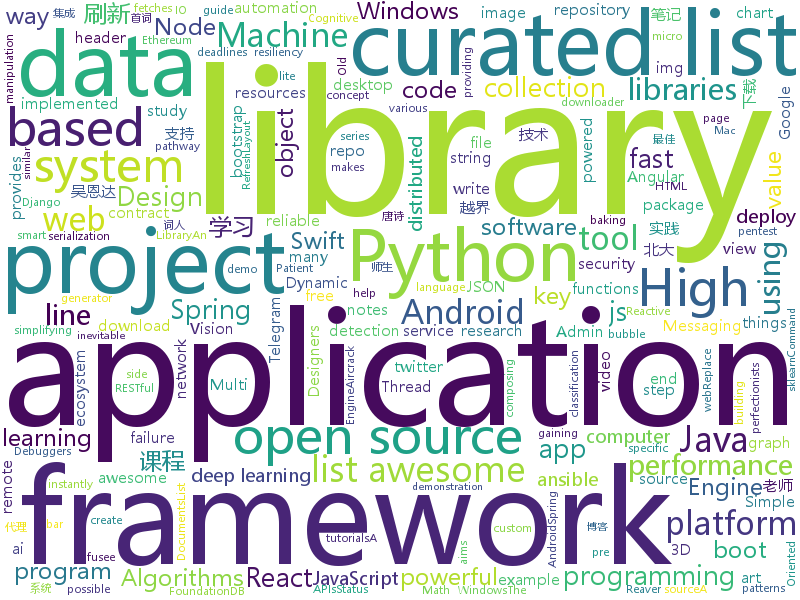
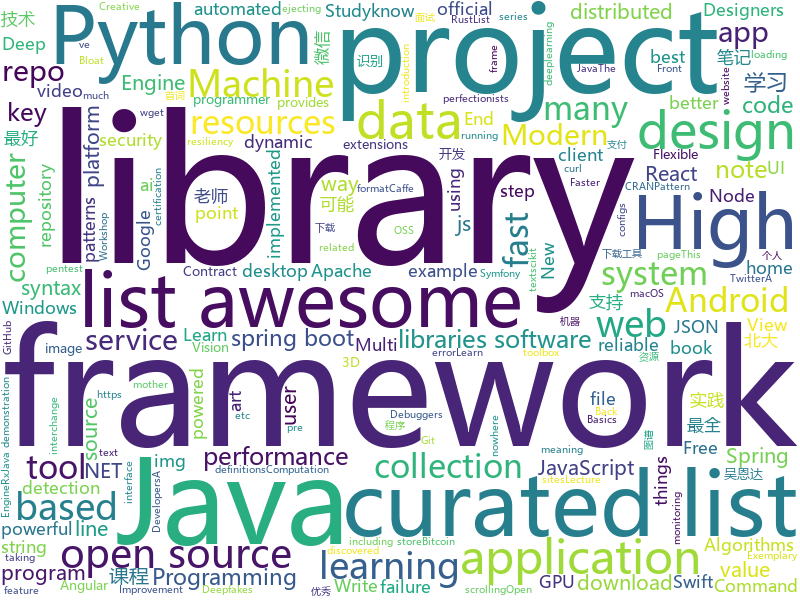
2018-04-30

diff --git a/2018-04-30.md b/2018-04-30.md
@@ -2,139 +2,139 @@
 See what the GitHub community is most excited about today.
 
 ## python
-* [swapy](https://github.com/danieldaeschle/swapy)(**446 stars today**): Easy and modular web development
-* [hypertools](https://github.com/ContextLab/hypertools)(**167 stars today**): A Python toolbox for gaining geometric insights into high-dimensional data
-* [chinese-poetry](https://github.com/chinese-poetry/chinese-poetry)(**65 stars today**): 最全中华古诗词数据库, 唐宋两朝近一万四千古诗人, 接近5.5万首唐诗加26万宋诗. 两宋时期1564位词人，21050首词。
-* [fdb-nbd](https://github.com/dividuum/fdb-nbd)(**63 stars today**): A totally proof-of-concept FoundationDB based network block device backend
-* [models](https://github.com/tensorflow/models)(**33 stars today**): Models and examples built with TensorFlow
-* [flask](https://github.com/pallets/flask)(**39 stars today**): The Python micro framework for building web applications.
-* [awesome-python](https://github.com/vinta/awesome-python)(**35 stars today**): A curated list of awesome Python frameworks, libraries, software and resources
-* [c-cpp-notes](https://github.com/BenLangmead/c-cpp-notes)(**35 stars today**): Lecture notes and example code for teaching C & C++
-* [sklearn-introduction](https://github.com/YouChouNoBB/sklearn-introduction)(**27 stars today**): 3节课简单入门一下sklearn
-* [rebound](https://github.com/shobrook/rebound)(**29 stars today**): Command-line tool that instantly fetches Stack Overflow results when you get a compiler error
-* [you-get](https://github.com/soimort/you-get)(**27 stars today**): ⏬Dumb downloader that scrapes the web
+* [monkey](https://github.com/guardicore/monkey)(**121 stars today**): Infection Monkey - An automated pentest tool
+* [hypertools](https://github.com/ContextLab/hypertools)(**120 stars today**): A Python toolbox for gaining geometric insights into high-dimensional data
+* [models](https://github.com/tensorflow/models)(**40 stars today**): Models and examples built with TensorFlow
+* [swapy](https://github.com/danieldaeschle/swapy)(**57 stars today**): Easy and modular web development
+* [awesome-python](https://github.com/vinta/awesome-python)(**50 stars today**): A curated list of awesome Python frameworks, libraries, software and resources
+* [faceai](https://github.com/vipstone/faceai)(**37 stars today**): 一款优秀的人脸检测、人脸识别、视频识别、文字识别等智能AI项目。
+* [flask](https://github.com/pallets/flask)(**36 stars today**): The Python micro framework for building web applications.
+* [youtube-dl](https://github.com/rg3/youtube-dl)(**39 stars today**): Command-line program to download videos from YouTube.com and other video sites
+* [c-cpp-notes](https://github.com/BenLangmead/c-cpp-notes)(**38 stars today**): Lecture notes and example code for teaching C & C++
+* [public-apis](https://github.com/toddmotto/public-apis)(**35 stars today**): A collective list of public JSON APIs for use in web development.
+* [keras](https://github.com/keras-team/keras)(**28 stars today**): Deep Learning for humans
+* [django](https://github.com/django/django)(**28 stars today**): The Web framework for perfectionists with deadlines.
+* [awesome-machine-learning](https://github.com/josephmisiti/awesome-machine-learning)(**27 stars today**): A curated list of awesome Machine Learning frameworks, libraries and software.
+* [snips-nlu](https://github.com/snipsco/snips-nlu)(**27 stars today**): Snips Python library to extract meaning from text
+* [scikit-learn](https://github.com/scikit-learn/scikit-learn)(**22 stars today**): scikit-learn: machine learning in Python
+* [snallygaster](https://github.com/hannob/snallygaster)(**25 stars today**): Tool to scan for secret files on HTTP servers
+* [rebound](https://github.com/shobrook/rebound)(**25 stars today**): Command-line tool that instantly fetches Stack Overflow results when you get a compiler error
+* [system-design-primer](https://github.com/donnemartin/system-design-primer)(**22 stars today**): Learn how to design large-scale systems. Prep for the system design interview. Includes Anki flashcards.
+* [you-get](https://github.com/soimort/you-get)(**23 stars today**): ⏬Dumb downloader that scrapes the web
+* [httpie](https://github.com/jakubroztocil/httpie)(**23 stars today**): Modern command line HTTP client – user-friendly curl alternative with intuitive UI, JSON support, syntax highlighting, wget-like downloads, extensions, etc. https://httpie.org
+* [chinese-poetry](https://github.com/chinese-poetry/chinese-poetry)(**21 stars today**): 最全中华古诗词数据库, 唐宋两朝近一万四千古诗人, 接近5.5万首唐诗加26万宋诗. 两宋时期1564位词人，21050首词。
+* [QANet-pytorch](https://github.com/hengruo/QANet-pytorch)(**22 stars today**): 
 * [pandas](https://github.com/pandas-dev/pandas)(**18 stars today**): Flexible and powerful data analysis / manipulation library for Python, providing labeled data structures similar to R data.frame objects, statistical functions, and much more
-* [system-design-primer](https://github.com/donnemartin/system-design-primer)(**23 stars today**): Learn how to design large-scale systems. Prep for the system design interview. Includes Anki flashcards.
-* [faceswap](https://github.com/deepfakes/faceswap)(**20 stars today**): Non official project based on original /r/Deepfakes thread. Many thanks to him!
-* [keras](https://github.com/keras-team/keras)(**19 stars today**): Deep Learning for humans
-* [django](https://github.com/django/django)(**19 stars today**): The Web framework for perfectionists with deadlines.
-* [awesome-machine-learning](https://github.com/josephmisiti/awesome-machine-learning)(**22 stars today**): A curated list of awesome Machine Learning frameworks, libraries and software.
-* [monkey](https://github.com/guardicore/monkey)(**22 stars today**): Infection Monkey - An automated pentest tool
-* [youtube-dl](https://github.com/rg3/youtube-dl)(**22 stars today**): Command-line program to download videos from YouTube.com and other video sites
-* [public-apis](https://github.com/toddmotto/public-apis)(**22 stars today**): A collective list of public JSON APIs for use in web development.
-* [snallygaster](https://github.com/hannob/snallygaster)(**23 stars today**): Tool to scan for secret files on HTTP servers
-* [Detectron](https://github.com/facebookresearch/Detectron)(**21 stars today**): FAIR's research platform for object detection research, implementing popular algorithms like Mask R-CNN and RetinaNet.
-* [ansible](https://github.com/ansible/ansible)(**19 stars today**): Ansible is a radically simple IT automation platform that makes your applications and systems easier to deploy. Avoid writing scripts or custom code to deploy and update your applications — automate in a language that approaches plain English, using SSH, with no agents to install on remote systems. https://docs.ansible.com/ansible/
-* [gluon-cv](https://github.com/dmlc/gluon-cv)(**19 stars today**): Gluon CV Toolkit
-* [cpython](https://github.com/python/cpython)(**14 stars today**): The Python programming language
+* [home-assistant](https://github.com/home-assistant/home-assistant)(**16 stars today**): 🏡Open-source home automation platform running on Python 3
+* [faceswap](https://github.com/deepfakes/faceswap)(**17 stars today**): Non official project based on original /r/Deepfakes thread. Many thanks to him!
 
 ## java
-* [proxyee-down](https://github.com/monkeyWie/proxyee-down)(**43 stars today**): http下载工具，基于http代理，支持多连接分块下载
-* [okdownload](https://github.com/lingochamp/okdownload)(**45 stars today**): A Reliable, Flexible, Fast and Powerful download engine.
-* [halo](https://github.com/ruibaby/halo)(**42 stars today**): Halo可能是最好的Java博客系统😉
-* [graal](https://github.com/oracle/graal)(**38 stars today**): GraalVM: Run Programs Faster Anywhere🚀
-* [spring-boot](https://github.com/spring-projects/spring-boot)(**22 stars today**): Spring Boot
-* [java-design-patterns](https://github.com/iluwatar/java-design-patterns)(**23 stars today**): Design patterns implemented in Java
-* [Java](https://github.com/TheAlgorithms/Java)(**18 stars today**): All Algorithms implemented in Java
-* [elasticsearch](https://github.com/elastic/elasticsearch)(**16 stars today**): Open Source, Distributed, RESTful Search Engine
-* [Hijacker](https://github.com/chrisk44/Hijacker)(**17 stars today**): Aircrack, Airodump, Aireplay, MDK3 and Reaver GUI Application for Android
+* [proxyee-down](https://github.com/monkeyWie/proxyee-down)(**48 stars today**): http下载工具，基于http代理，支持多连接分块下载
+* [graal](https://github.com/oracle/graal)(**43 stars today**): GraalVM: Run Programs Faster Anywhere🚀
+* [spring-boot](https://github.com/spring-projects/spring-boot)(**28 stars today**): Spring Boot
+* [halo](https://github.com/ruibaby/halo)(**31 stars today**): Halo可能是最好的Java博客系统😉
+* [java-design-patterns](https://github.com/iluwatar/java-design-patterns)(**24 stars today**): Design patterns implemented in Java
+* [tutorials](https://github.com/eugenp/tutorials)(**15 stars today**): The "REST With Spring" Course:
+* [Java](https://github.com/TheAlgorithms/Java)(**22 stars today**): All Algorithms implemented in Java
+* [okdownload](https://github.com/lingochamp/okdownload)(**24 stars today**): A Reliable, Flexible, Fast and Powerful download engine.
+* [okhttp](https://github.com/square/okhttp)(**21 stars today**): An HTTP+HTTP/2 client for Android and Java applications.
+* [elasticsearch](https://github.com/elastic/elasticsearch)(**18 stars today**): Open Source, Distributed, RESTful Search Engine
+* [RxJava](https://github.com/ReactiveX/RxJava)(**17 stars today**): RxJava – Reactive Extensions for the JVM – a library for composing asynchronous and event-based programs using observable sequences for the Java VM.
+* [springboot-learning-example](https://github.com/JeffLi1993/springboot-learning-example)(**16 stars today**): spring boot 实践学习案例，是 spring boot 初学者及核心技术巩固的最佳实践。
+* [glide](https://github.com/bumptech/glide)(**16 stars today**): An image loading and caching library for Android focused on smooth scrolling
+* [runelite](https://github.com/runelite/runelite)(**8 stars today**): Open source Old School RuneScape client
+* [aparapi](https://github.com/Syncleus/aparapi)(**15 stars today**): The New Aparapi: a framework for executing native Java code on the GPU.
 * [spring-framework](https://github.com/spring-projects/spring-framework)(**10 stars today**): Spring Framework
-* [okhttp](https://github.com/square/okhttp)(**14 stars today**): An HTTP+HTTP/2 client for Android and Java applications.
-* [tutorials](https://github.com/eugenp/tutorials)(**7 stars today**): The "REST With Spring" Course:
-* [incubator-dubbo](https://github.com/apache/incubator-dubbo)(**12 stars today**): Apache Dubbo (incubating) is a high-performance, java based, open source RPC framework.
+* [zuul](https://github.com/Netflix/zuul)(**12 stars today**): Zuul is a gateway service that provides dynamic routing, monitoring, resiliency, security, and more.
+* [ViewPump](https://github.com/InflationX/ViewPump)(**12 stars today**): View Inflation you can intercept.
+* [incubator-dubbo](https://github.com/apache/incubator-dubbo)(**10 stars today**): Apache Dubbo (incubating) is a high-performance, java based, open source RPC framework.
 * [Hystrix](https://github.com/Netflix/Hystrix)(**10 stars today**): Hystrix is a latency and fault tolerance library designed to isolate points of access to remote systems, services and 3rd party libraries, stop cascading failure and enable resilience in complex distributed systems where failure is inevitable.
-* [runelite](https://github.com/runelite/runelite)(**5 stars today**): Open source Old School RuneScape client
-* [RxJava](https://github.com/ReactiveX/RxJava)(**11 stars today**): RxJava – Reactive Extensions for the JVM – a library for composing asynchronous and event-based programs using observable sequences for the Java VM.
-* [glide](https://github.com/bumptech/glide)(**11 stars today**): An image loading and caching library for Android focused on smooth scrolling
-* [springboot-learning-example](https://github.com/JeffLi1993/springboot-learning-example)(**10 stars today**): spring boot 实践学习案例，是 spring boot 初学者及核心技术巩固的最佳实践。
-* [SmartRefreshLayout](https://github.com/scwang90/SmartRefreshLayout)(**10 stars today**): 🔥下拉刷新、上拉加载、二级刷新、淘宝二楼、RefreshLayout、OverScroll，Android智能下拉刷新框架，支持越界回弹、越界拖动，具有极强的扩展性，集成了几十种炫酷的Header和 Footer。
-* [Telegram](https://github.com/DrKLO/Telegram)(**9 stars today**): Telegram for Android source
-* [MPAndroidChart](https://github.com/PhilJay/MPAndroidChart)(**10 stars today**): A powerful🚀Android chart view / graph view library, supporting line- bar- pie- radar- bubble- and candlestick charts as well as scaling, dragging and animations.
-* [zuul](https://github.com/Netflix/zuul)(**9 stars today**): Zuul is a gateway service that provides dynamic routing, monitoring, resiliency, security, and more.
-* [Amadeus](https://github.com/Yink/Amadeus)(**9 stars today**): A side project that aims to replicate the Amadeus App shown in Steins;Gate 0.
-* [selenium](https://github.com/SeleniumHQ/selenium)(**7 stars today**): A browser automation framework and ecosystem.
-* [disruptor](https://github.com/LMAX-Exchange/disruptor)(**8 stars today**): High Performance Inter-Thread Messaging Library
+* [weixin-java-tools](https://github.com/Wechat-Group/weixin-java-tools)(**10 stars today**): 可能是目前最好最全的微信Java开发工具包，支持包括微信支付、开放平台、小程序、企业号和公众号等的开发
+* [butterknife](https://github.com/JakeWharton/butterknife)(**10 stars today**): Bind Android views and callbacks to fields and methods.
+* [hadoop](https://github.com/apache/hadoop)(**7 stars today**): Mirror of Apache Hadoop
+* [leakcanary](https://github.com/square/leakcanary)(**10 stars today**): A memory leak detection library for Android and Java.
+* [kayenta](https://github.com/spinnaker/kayenta)(**10 stars today**): Automated Canary Service
 
 ## unknown
-* [architect-awesome](https://github.com/xingshaocheng/architect-awesome)(**542 stars today**): 后端架构师技术图谱
-* [the-bread-code](https://github.com/hendricius/the-bread-code)(**332 stars today**): Learn how to master the art of baking the programmer way.
-* [swift](https://github.com/tensorflow/swift)(**146 stars today**): Swift for TensorFlow documentation repository.
-* [windows10_ntfs_crash_dos](https://github.com/mtivadar/windows10_ntfs_crash_dos)(**110 stars today**): PoC for a NTFS crash that I discovered, in various Windows versions
+* [architect-awesome](https://github.com/xingshaocheng/architect-awesome)(**403 stars today**): 后端架构师技术图谱
+* [the-bread-code](https://github.com/hendricius/the-bread-code)(**252 stars today**): Learn how to master the art of baking the programmer way.
+* [project-based-learning](https://github.com/tuvtran/project-based-learning)(**184 stars today**): Curated list of project-based tutorials
+* [swift](https://github.com/tensorflow/swift)(**139 stars today**): Swift for TensorFlow documentation repository.
 * [coding-interview-university](https://github.com/jwasham/coding-interview-university)(**104 stars today**): A complete computer science study plan to become a software engineer.
-* [project-based-learning](https://github.com/tuvtran/project-based-learning)(**104 stars today**): Curated list of project-based tutorials
-* [gitignore](https://github.com/github/gitignore)(**69 stars today**): A collection of useful .gitignore templates
-* [SwiftTips](https://github.com/JohnSundell/SwiftTips)(**52 stars today**): A collection of Swift tips & tricks that I've shared on Twitter
-* [Interview-Notebook](https://github.com/CyC2018/Interview-Notebook)(**43 stars today**): 📚技术面试需要掌握的基础知识整理，欢迎编辑~
-* [You-Dont-Know-JS](https://github.com/getify/You-Dont-Know-JS)(**40 stars today**): A book series on JavaScript. @YDKJS on twitter.
-* [awesome](https://github.com/sindresorhus/awesome)(**41 stars today**): 😎Curated list of awesome lists
-* [free-programming-books](https://github.com/EbookFoundation/free-programming-books)(**33 stars today**): 📚Freely available programming books
-* [awesome-scalability](https://github.com/binhnguyennus/awesome-scalability)(**33 stars today**): High Scalability, High Availability, High Stability, High Performance, and High Intelligence Back-end Designs
-* [baidu-netdisk-downloaderx](https://github.com/b3log/baidu-netdisk-downloaderx)(**26 stars today**): ⚡百度网盘不限速下载器
-* [awesome-vue](https://github.com/vuejs/awesome-vue)(**24 stars today**): 🎉A curated list of awesome things related to Vue.js
+* [SwiftTips](https://github.com/JohnSundell/SwiftTips)(**109 stars today**): A collection of Swift tips & tricks that I've shared on Twitter
+* [gitignore](https://github.com/github/gitignore)(**92 stars today**): A collection of useful .gitignore templates
+* [windows10_ntfs_crash_dos](https://github.com/mtivadar/windows10_ntfs_crash_dos)(**81 stars today**): PoC for a NTFS crash that I discovered, in various Windows versions
+* [You-Dont-Know-JS](https://github.com/getify/You-Dont-Know-JS)(**46 stars today**): A book series on JavaScript. @YDKJS on twitter.
+* [awesome](https://github.com/sindresorhus/awesome)(**47 stars today**): 😎Curated list of awesome lists
+* [free-programming-books](https://github.com/EbookFoundation/free-programming-books)(**45 stars today**): 📚Freely available programming books
+* [Interview-Notebook](https://github.com/CyC2018/Interview-Notebook)(**41 stars today**): 📚技术面试需要掌握的基础知识整理，欢迎编辑~
+* [awesome-flutter](https://github.com/Solido/awesome-flutter)(**26 stars today**): A curated list of awesome Flutter components, frameworks, libraries, and softwares
+* [awesome-vue](https://github.com/vuejs/awesome-vue)(**28 stars today**): 🎉A curated list of awesome things related to Vue.js
+* [awesome-nodejs](https://github.com/sindresorhus/awesome-nodejs)(**25 stars today**): ⚡Delightful Node.js packages and resources
 * [Front-End-Design-Checklist](https://github.com/thedaviddias/Front-End-Design-Checklist)(**23 stars today**): 💎The Design Checklist for Creative Web Designers and Patient Front-End Developers
-* [awesome-computer-vision](https://github.com/jbhuang0604/awesome-computer-vision)(**21 stars today**): A curated list of awesome computer vision resources
-* [p1xt-guides](https://github.com/P1xt/p1xt-guides)(**20 stars today**): Programming curricula
-* [awesome-nodejs](https://github.com/sindresorhus/awesome-nodejs)(**19 stars today**): ⚡Delightful Node.js packages and resources
-* [awesome-flutter](https://github.com/Solido/awesome-flutter)(**18 stars today**): A curated list of awesome Flutter components, frameworks, libraries, and softwares
-* [Documentation](https://github.com/EOSIO/Documentation)(**14 stars today**): EOS.IO Documents
-* [the-math-of-intelligence](https://github.com/LearnMachineLearning/the-math-of-intelligence)(**15 stars today**): List of resources & possible pathway for the Math of Machine Learning and AI.
-* [realworld](https://github.com/gothinkster/realworld)(**14 stars today**): "The mother of all demo apps" — Exemplary fullstack Medium.com clone powered by React, Angular, Node, Django, and many more🏅
-* [awesome-react](https://github.com/enaqx/awesome-react)(**14 stars today**): A collection of awesome things regarding React ecosystem.
-* [nocode](https://github.com/kelseyhightower/nocode)(**14 stars today**): The best way to write secure and reliable applications. Write nothing; deploy nowhere.
+* [awesome-computer-vision](https://github.com/jbhuang0604/awesome-computer-vision)(**22 stars today**): A curated list of awesome computer vision resources
+* [awesome-scalability](https://github.com/binhnguyennus/awesome-scalability)(**20 stars today**): High Scalability, High Availability, High Stability, High Performance, and High Intelligence Back-end Designs
+* [junior-recruit-scheduler](https://github.com/jojoldu/junior-recruit-scheduler)(**20 stars today**): 주니어 개발자 채용 정보
+* [nocode](https://github.com/kelseyhightower/nocode)(**20 stars today**): The best way to write secure and reliable applications. Write nothing; deploy nowhere.
+* [titus](https://github.com/Netflix/titus)(**18 stars today**): 
+* [realworld](https://github.com/gothinkster/realworld)(**18 stars today**): "The mother of all demo apps" — Exemplary fullstack Medium.com clone powered by React, Angular, Node, Django, and many more🏅
+* [prepare-for-cran](https://github.com/ThinkR-open/prepare-for-cran)(**18 stars today**): A Collaborative list of things to know before submitting to CRAN
+* [proposal-pattern-matching](https://github.com/tc39/proposal-pattern-matching)(**18 stars today**): Pattern matching syntax for ECMAScript
+* [specification](https://github.com/mdx-js/specification)(**17 stars today**): MDX abstract syntax tree definitions
 
 ## c++
-* [tensorflow](https://github.com/tensorflow/tensorflow)(**96 stars today**): Computation using data flow graphs for scalable machine learning
-* [foundationdb](https://github.com/apple/foundationdb)(**67 stars today**): FoundationDB - the open source, distributed, transactional key-value store
-* [Open3D](https://github.com/Open-3D/Open3D)(**53 stars today**): Open3D: A Modern Library for 3D Data Processing
-* [span-lite](https://github.com/martinmoene/span-lite)(**33 stars today**): span lite - A single-file header-only version of a C++20-like span for C++98, C++11 and later
-* [bitcoin](https://github.com/bitcoin/bitcoin)(**23 stars today**): Bitcoin Core integration/staging tree
-* [opencv](https://github.com/opencv/opencv)(**18 stars today**): Open Source Computer Vision Library
-* [eos](https://github.com/EOSIO/eos)(**23 stars today**): An open source smart contract platform
-* [protobuf](https://github.com/google/protobuf)(**21 stars today**): Protocol Buffers - Google's data interchange format
-* [electron](https://github.com/electron/electron)(**21 stars today**): Build cross platform desktop apps with JavaScript, HTML, and CSS
-* [aseprite](https://github.com/aseprite/aseprite)(**21 stars today**): Animated sprite editor & pixel art tool (Windows, macOS, Linux)
-* [pytorch](https://github.com/pytorch/pytorch)(**17 stars today**): Tensors and Dynamic neural networks in Python with strong GPU acceleration
-* [leveldb](https://github.com/google/leveldb)(**16 stars today**): LevelDB is a fast key-value storage library written at Google that provides an ordered mapping from string keys to string values.
-* [napajs](https://github.com/Microsoft/napajs)(**18 stars today**): Napa.js: a multi-threaded JavaScript runtime
-* [al-khaser](https://github.com/LordNoteworthy/al-khaser)(**16 stars today**): Public malware techniques used in the wild: Virtual Machine, Emulation, Debuggers, Sandbox detection.
-* [swift](https://github.com/apple/swift)(**14 stars today**): The Swift Programming Language
-* [tesseract](https://github.com/tesseract-ocr/tesseract)(**14 stars today**): Tesseract Open Source OCR Engine (main repository)
-* [tdesktop](https://github.com/telegramdesktop/tdesktop)(**13 stars today**): Telegram Desktop messaging app
+* [tensorflow](https://github.com/tensorflow/tensorflow)(**95 stars today**): Computation using data flow graphs for scalable machine learning
+* [foundationdb](https://github.com/apple/foundationdb)(**53 stars today**): FoundationDB - the open source, distributed, transactional key-value store
+* [bitcoin](https://github.com/bitcoin/bitcoin)(**30 stars today**): Bitcoin Core integration/staging tree
+* [electron](https://github.com/electron/electron)(**33 stars today**): Build cross platform desktop apps with JavaScript, HTML, and CSS
+* [Open3D](https://github.com/Open-3D/Open3D)(**33 stars today**): Open3D: A Modern Library for 3D Data Processing
+* [opencv](https://github.com/opencv/opencv)(**24 stars today**): Open Source Computer Vision Library
+* [eos](https://github.com/EOSIO/eos)(**29 stars today**): An open source smart contract platform
+* [aseprite](https://github.com/aseprite/aseprite)(**26 stars today**): Animated sprite editor & pixel art tool (Windows, macOS, Linux)
+* [napajs](https://github.com/Microsoft/napajs)(**27 stars today**): Napa.js: a multi-threaded JavaScript runtime
+* [pytorch](https://github.com/pytorch/pytorch)(**25 stars today**): Tensors and Dynamic neural networks in Python with strong GPU acceleration
+* [span-lite](https://github.com/martinmoene/span-lite)(**25 stars today**): span lite - A single-file header-only version of a C++20-like span for C++98, C++11 and later
+* [protobuf](https://github.com/google/protobuf)(**19 stars today**): Protocol Buffers - Google's data interchange format
+* [caffe](https://github.com/BVLC/caffe)(**17 stars today**): Caffe: a fast open framework for deep learning.
+* [vnote](https://github.com/tamlok/vnote)(**17 stars today**): A Vim-inspired note-taking application that knows programmers and Markdown better.
+* [swift](https://github.com/apple/swift)(**16 stars today**): The Swift Programming Language
+* [leveldb](https://github.com/google/leveldb)(**14 stars today**): LevelDB is a fast key-value storage library written at Google that provides an ordered mapping from string keys to string values.
 * [godot](https://github.com/godotengine/godot)(**13 stars today**): Godot Engine – Multi-platform 2D and 3D game engine
-* [CNTK](https://github.com/Microsoft/CNTK)(**12 stars today**): Microsoft Cognitive Toolkit (CNTK), an open source deep-learning toolkit
-* [cmder](https://github.com/cmderdev/cmder)(**13 stars today**): Lovely console emulator package for Windows
-* [grpc](https://github.com/grpc/grpc)(**12 stars today**): The C based gRPC (C++, Python, Ruby, Objective-C, PHP, C#)
-* [caffe](https://github.com/BVLC/caffe)(**11 stars today**): Caffe: a fast open framework for deep learning.
-* [lift](https://github.com/rollbear/lift)(**12 stars today**): constexpr C++17 library for simplifying higher order functions in application code
-* [TegraRcmSmash](https://github.com/rajkosto/TegraRcmSmash)(**12 stars today**): A reimplementation of fusee-launcher in C++ for Windows platforms.
-* [solidity](https://github.com/ethereum/solidity)(**10 stars today**): Solidity, the Contract-Oriented Programming Language
+* [al-khaser](https://github.com/LordNoteworthy/al-khaser)(**13 stars today**): Public malware techniques used in the wild: Virtual Machine, Emulation, Debuggers, Sandbox detection.
+* [tesseract](https://github.com/tesseract-ocr/tesseract)(**12 stars today**): Tesseract Open Source OCR Engine (main repository)
+* [solidity](https://github.com/ethereum/solidity)(**12 stars today**): Solidity, the Contract-Oriented Programming Language
+* [tdesktop](https://github.com/telegramdesktop/tdesktop)(**12 stars today**): Telegram Desktop messaging app
+* [json](https://github.com/nlohmann/json)(**11 stars today**): JSON for Modern C++
+* [xmr-stak](https://github.com/fireice-uk/xmr-stak)(**7 stars today**): Unified All-in-one Monero miner
+* [imgui](https://github.com/ocornut/imgui)(**9 stars today**): Dear ImGui: Bloat-free Immediate Mode Graphical User interface for C++ with minimal dependencies
+* [yuzu](https://github.com/yuzu-emu/yuzu)(**10 stars today**): Nintendo Switch Emulator
 
 ## html
-* [deeplearning_ai_books](https://github.com/fengdu78/deeplearning_ai_books)(**111 stars today**): deeplearning.ai（吴恩达老师的深度学习课程笔记及资源）
-* [Coursera-ML-AndrewNg-Notes](https://github.com/fengdu78/Coursera-ML-AndrewNg-Notes)(**87 stars today**): 吴恩达老师的机器学习课程个人笔记
-* [Xin-Yue](https://github.com/sikaozhe1997/Xin-Yue)(**92 stars today**): 岳昕：致北大师生与北大外国语学院的一封公开信
-* [awesome-quantum-machine-learning](https://github.com/krishnakumarsekar/awesome-quantum-machine-learning)(**42 stars today**): Here you can get all the Quantum Machine learning Basics, Algorithms ,Study Materials ,Projects and the descriptions of the projects around the web
-* [img-2](https://github.com/RevillWeb/img-2)(**23 stars today**): Replace <img /> elements with <img-2> to automatically pre-cache images and improve page performance.
-* [AdminLTE](https://github.com/almasaeed2010/AdminLTE)(**11 stars today**): AdminLTE - Free Premium Admin control Panel Theme Based On Bootstrap 3.x
-* [awesome-mac](https://github.com/jaywcjlove/awesome-mac)(**12 stars today**):  This repo is a collection of awesome Mac applications and tools for developers and designers.
-* [generator-jhipster](https://github.com/jhipster/generator-jhipster)(**10 stars today**): Open Source application generator for creating Spring Boot + Angular/React projects in seconds!
-* [zju-icicles](https://github.com/QSCTech/zju-icicles)(**8 stars today**): 浙江大学课程攻略共享计划
-* [Hacking-Tools-Repository](https://github.com/Gexos/Hacking-Tools-Repository)(**7 stars today**): A list of security/hacking tools that have been collected from the internet. Suggestions are welcomed.
+* [Xin-Yue](https://github.com/sikaozhe1997/Xin-Yue)(**158 stars today**): 岳昕：致北大师生与北大外国语学院的一封公开信
+* [deeplearning_ai_books](https://github.com/fengdu78/deeplearning_ai_books)(**88 stars today**): deeplearning.ai（吴恩达老师的深度学习课程笔记及资源）
+* [Coursera-ML-AndrewNg-Notes](https://github.com/fengdu78/Coursera-ML-AndrewNg-Notes)(**64 stars today**): 吴恩达老师的机器学习课程个人笔记
+* [awesome-quantum-machine-learning](https://github.com/krishnakumarsekar/awesome-quantum-machine-learning)(**24 stars today**): Here you can get all the Quantum Machine learning Basics, Algorithms ,Study Materials ,Projects and the descriptions of the projects around the web
+* [img-2](https://github.com/RevillWeb/img-2)(**18 stars today**): Replace <img /> elements with <img-2> to automatically pre-cache images and improve page performance.
+* [AdminLTE](https://github.com/almasaeed2010/AdminLTE)(**13 stars today**): AdminLTE - Free Premium Admin control Panel Theme Based On Bootstrap 3.x
+* [cs231n.github.io](https://github.com/cs231n/cs231n.github.io)(**12 stars today**): Public facing notes page
 * [Spoon-Knife](https://github.com/octocat/Spoon-Knife)(****): This repo is for demonstration purposes only.
-* [portainer](https://github.com/portainer/portainer)(**8 stars today**): Simple management UI for Docker
-* [cs231n.github.io](https://github.com/cs231n/cs231n.github.io)(**6 stars today**): Public facing notes page
-* [fastText](https://github.com/facebookresearch/fastText)(**7 stars today**): Library for fast text representation and classification.
-* [core](https://github.com/stackblitz/core)(**7 stars today**): Online IDE powered by VS Code⚡
-* [EIPs](https://github.com/ethereum/EIPs)(**7 stars today**): The Ethereum Improvement Proposal repository
-* [gson](https://github.com/google/gson)(**5 stars today**): A Java serialization/deserialization library to convert Java Objects into JSON and back
-* [intro.js](https://github.com/usablica/intro.js)(**7 stars today**): A better way for new feature introduction and step-by-step users guide for your website and project.
-* [symfony-certification-preparation-list](https://github.com/ThomasBerends/symfony-certification-preparation-list)(**6 stars today**): List of topic-specific resources to help you prepare for Symfony certification
-* [jsr](https://github.com/mercyblitz/jsr)(**6 stars today**): Java Specification Requests
-* [zenbot](https://github.com/DeviaVir/zenbot)(**5 stars today**): Zenbot is a command-line cryptocurrency trading bot using Node.js and MongoDB.
-* [react-app-rewired](https://github.com/timarney/react-app-rewired)(**6 stars today**): Override create-react-app webpack configs without ejecting
-* [coreui-free-bootstrap-admin-template](https://github.com/coreui/coreui-free-bootstrap-admin-template)(**5 stars today**): CoreUI is free bootstrap admin template
-* [electron-api-demos](https://github.com/electron/electron-api-demos)(**5 stars today**): Explore the Electron APIs
-* [ecma262](https://github.com/tc39/ecma262)(**5 stars today**): Status, process, and documents for ECMA262
+* [awesome-mac](https://github.com/jaywcjlove/awesome-mac)(**12 stars today**):  This repo is a collection of awesome Mac applications and tools for developers and designers.
+* [fastText](https://github.com/facebookresearch/fastText)(**10 stars today**): Library for fast text representation and classification.
+* [portainer](https://github.com/portainer/portainer)(**10 stars today**): Simple management UI for Docker
+* [generator-jhipster](https://github.com/jhipster/generator-jhipster)(**8 stars today**): Open Source application generator for creating Spring Boot + Angular/React projects in seconds!
+* [electron-api-demos](https://github.com/electron/electron-api-demos)(**7 stars today**): Explore the Electron APIs
+* [patchwork](https://github.com/jlord/patchwork)(****): All the Git-it Workshop completers!
+* [core](https://github.com/stackblitz/core)(**6 stars today**): Online IDE powered by VS Code⚡
+* [Hacking-Tools-Repository](https://github.com/Gexos/Hacking-Tools-Repository)(**6 stars today**): A list of security/hacking tools that have been collected from the internet. Suggestions are welcomed.
+* [EIPs](https://github.com/ethereum/EIPs)(**6 stars today**): The Ethereum Improvement Proposal repository
+* [intro.js](https://github.com/usablica/intro.js)(**6 stars today**): A better way for new feature introduction and step-by-step users guide for your website and project.
+* [blog_os](https://github.com/phil-opp/blog_os)(**6 stars today**): Writing an OS in Rust
+* [symfony-certification-preparation-list](https://github.com/ThomasBerends/symfony-certification-preparation-list)(**5 stars today**): List of topic-specific resources to help you prepare for Symfony certification
+* [mastering-modular-javascript](https://github.com/mjavascript/mastering-modular-javascript)(**5 stars today**): 📦Module thinking, principles, design patterns and best practices.
+* [zju-icicles](https://github.com/QSCTech/zju-icicles)(**5 stars today**): 浙江大学课程攻略共享计划
+* [dotnet](https://github.com/Microsoft/dotnet)(**5 stars today**): This repo is the official home of .NET on GitHub. It's a great starting point to find many .NET OSS projects from Microsoft and the community, including many that are part of the .NET Foundation.
+* [awesome-modern-cpp](https://github.com/rigtorp/awesome-modern-cpp)(**5 stars today**): A collection of resources on modern C++
+* [react-app-rewired](https://github.com/timarney/react-app-rewired)(**5 stars today**): Override create-react-app webpack configs without ejecting
 
 ## WordCloud
 ![](img/2018-04-30.png)
